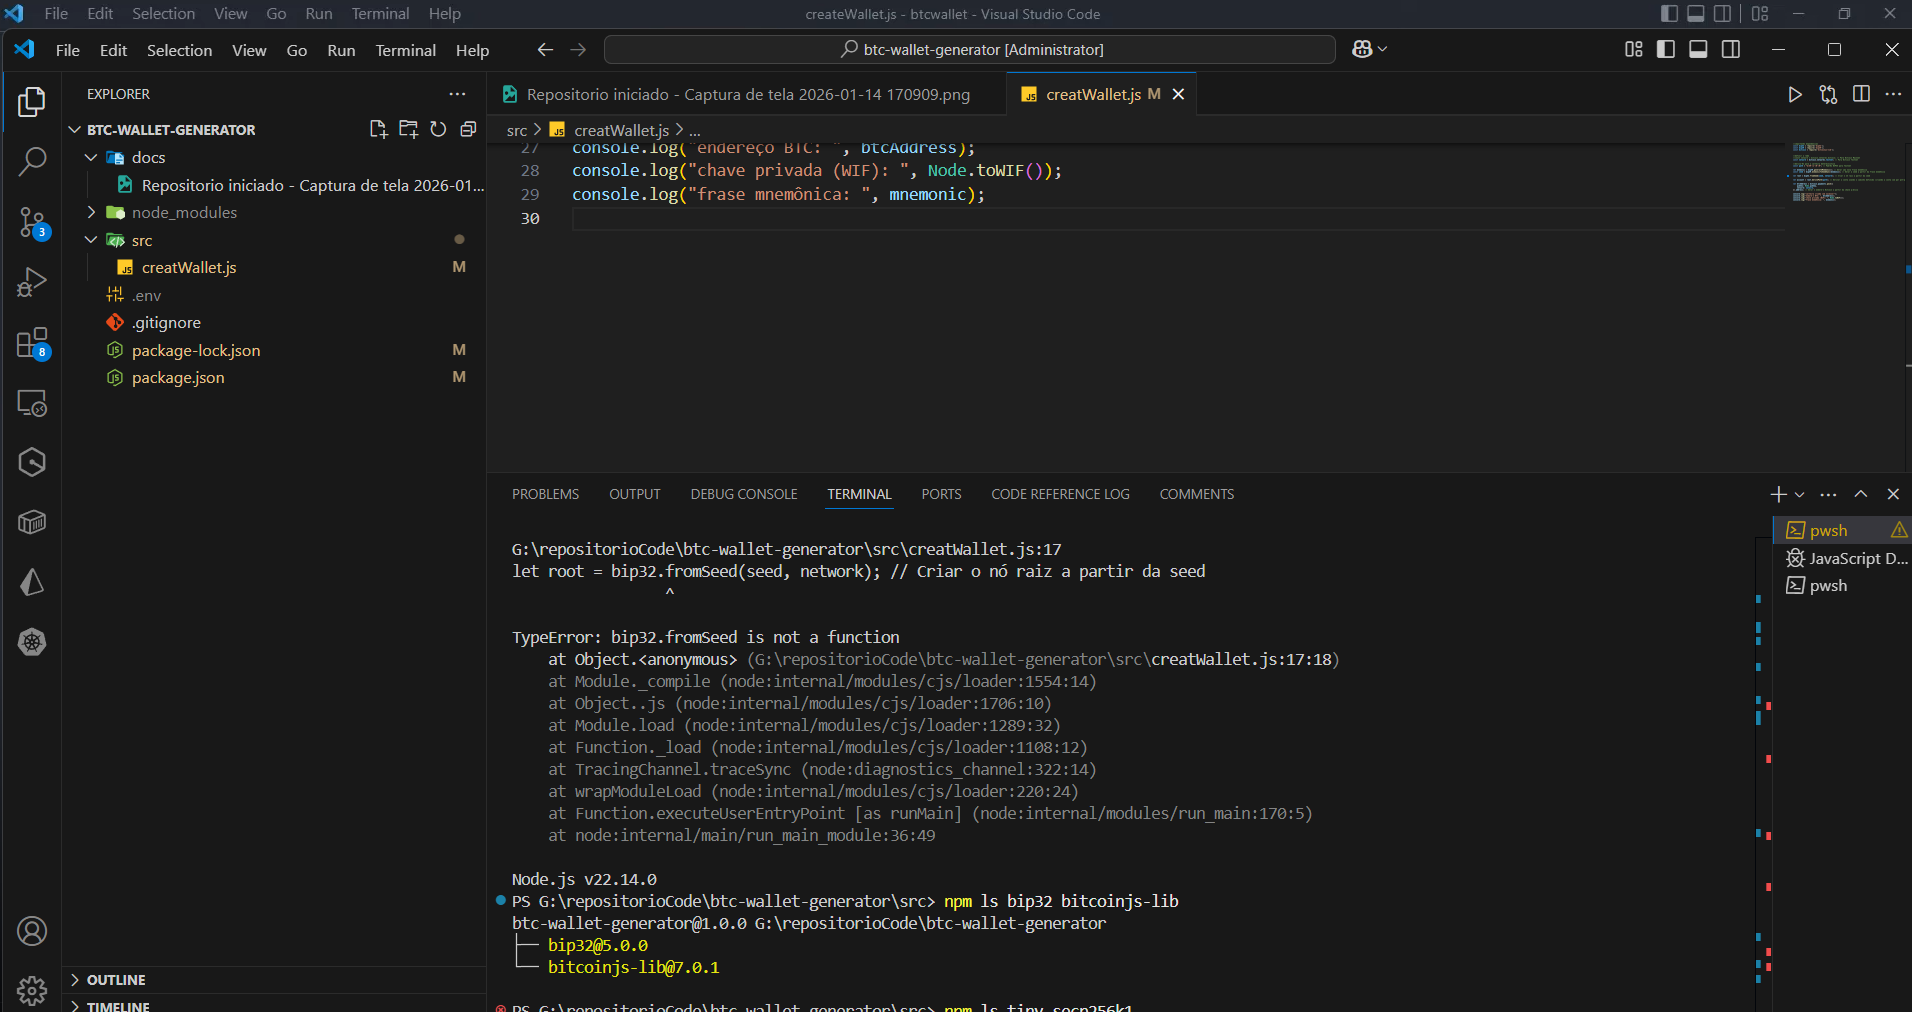
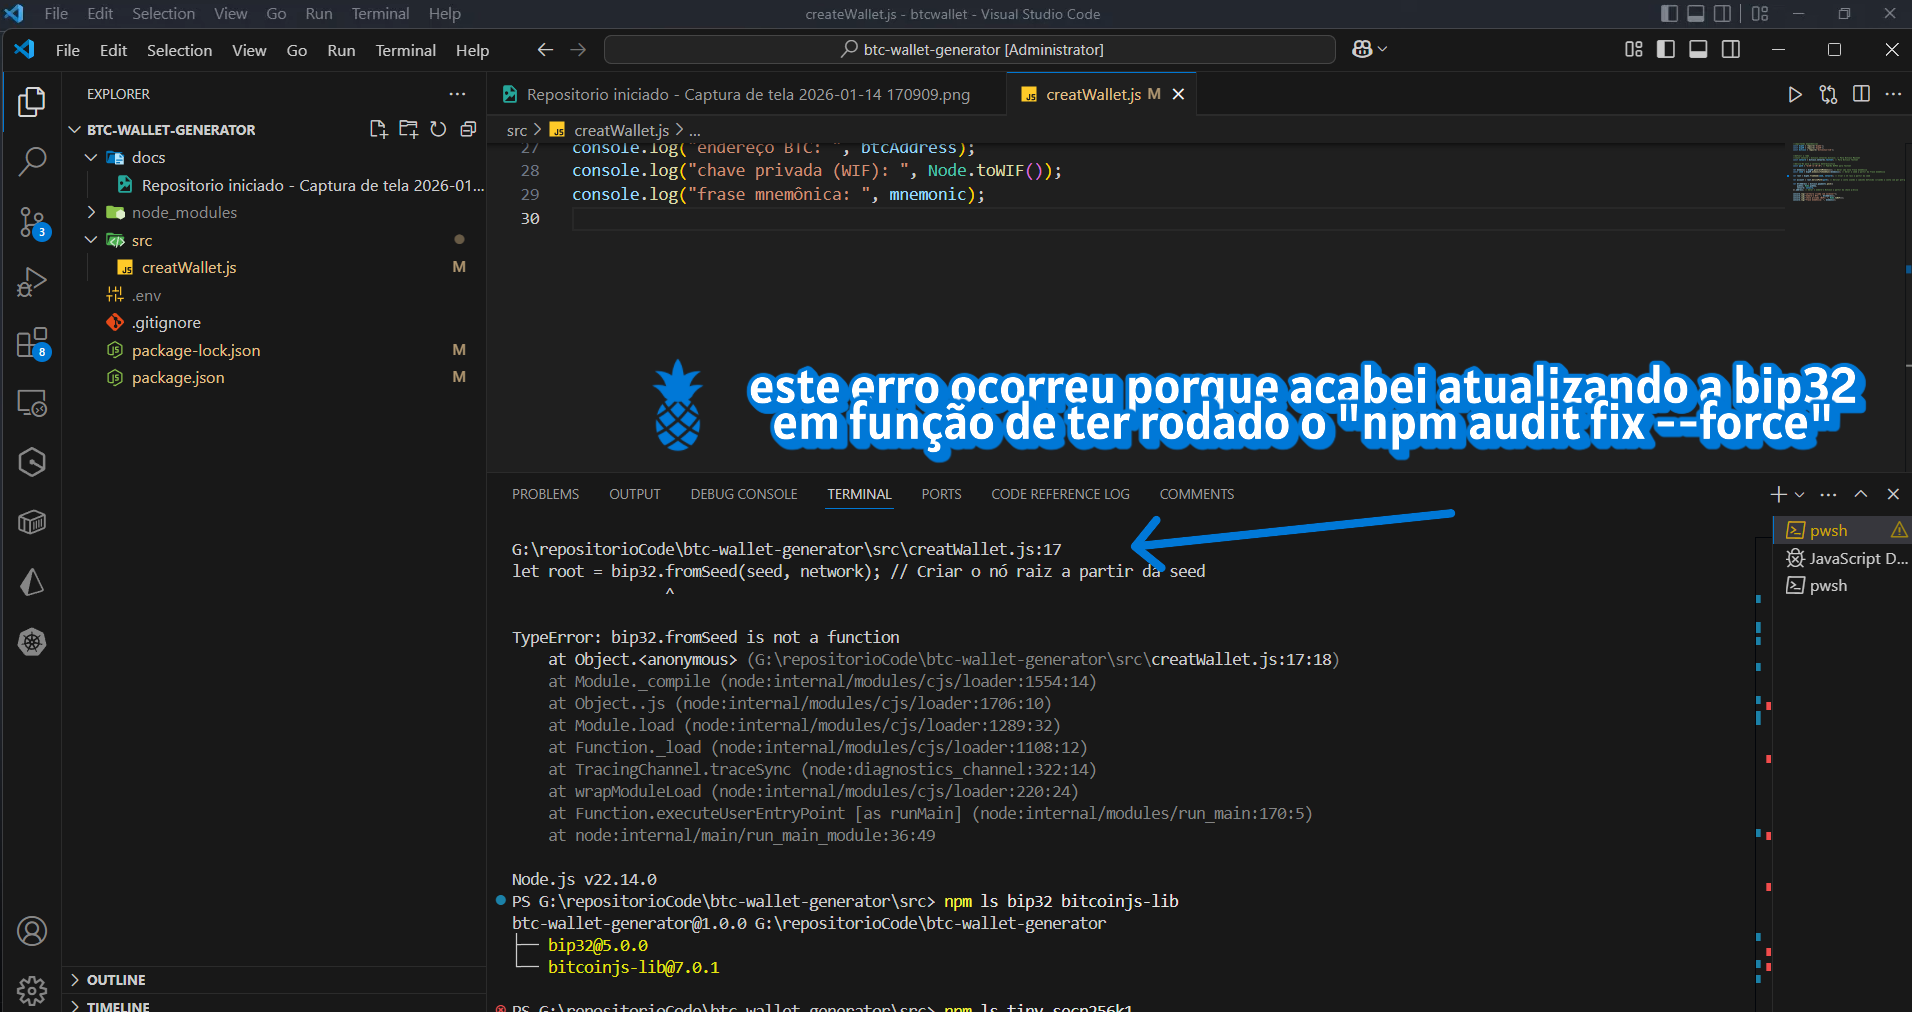
fix: alterações no creatWallet.js e incluida dependencia 'tiny-secp256k1'

Changed region(s): [[0.3394, 0.337, 0.9874, 0.4595], [0.5863, 0.4901, 0.7714, 0.5514]]

diff --git a/src/creatWallet.js b/src/creatWallet.js
@@ -1,29 +1,47 @@
+/*
+Fui obrigado a fazer alguns ajustes no código em função de ter rodado 'npm audit fix --force' isso atualizou a bip32 para 
+a versão 5.0.0
+
+const bip32 = require('bip32'); foi substituida por: 
+const ecc = require('tiny-secp256k1');
+const { BIP32Factory } = require('bip32');
+const bip32 = BIP32Factory(ecc);
+*/
+
 //importando dependencias
-const bip32 = require('bip32');
+const ecc = require('tiny-secp256k1');
+const { BIP32Factory } = require('bip32');
+const bip32 = BIP32Factory(ecc);
+
 const bip39 = require('bip39');
 const bitcoin = require('bitcoinjs-lib');
 
+// IMPORTANTE no bitcoinjs-lib v7: (sugerido pelo chatGPT 5.3)
+bitcoin.initEccLib(ecc);
 
 //definir a rede
 //const network = bitcoin.networks.bitcoin; // Para Bitcoin Mainnet
 const network = bitcoin.networks.testnet; // Para Bitcoin Testnet
 
 //derivação para a carteira deterministica
-const path = "m/49'/1'/0'/0"; // Padrão BIP44 para Testnet
+// m / 49' / coin_type' / account' / change / address_index
+const path = "m/49'/1'/0"; // Padrão BIP49 para Testnet
 
 let mnemonic = bip39.generateMnemonic(); // Gerar uma nova frase mnemônica
 const seed = bip39.mnemonicToSeedSync(mnemonic); // Gerar a seed a partir da frase mnemônica
 
-let root = bip32.fromSeed(seed, network); // Gerar a raiz da carteira a partir da seed
+let root = bip32.fromSeed(seed, network); // Criar o nó raiz a partir da seed
 
 let account = root.derivePath(path); // Derivar a conta usando o caminho definido (criando a conta com par pvt-pub key)
+let node = account.derive(0).derive(0); // Derivar o primeiro endereço (address_index = 0)
 
-let btcAddress = bitcoin.payments.p2sh({
-    pubkey: Node.pubkey,
+let btcAddress = bitcoin.payments.p2pkh({
+    pubkey: node.publicKey,
     network: network,
 }).address; // Gerar o endereço Bitcoin a partir da chave pública
 
+
 console.log("carteira criada com sucesso!");
 console.log("endereço BTC: ", btcAddress);
-console.log("chave privada (WIF): ", Node.toWIF());
+console.log("chave privada (WIF): ", node.toWIF());
 console.log("frase mnemônica: ", mnemonic);
